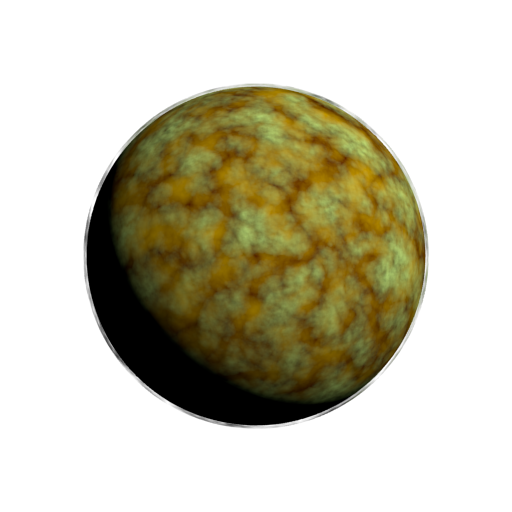
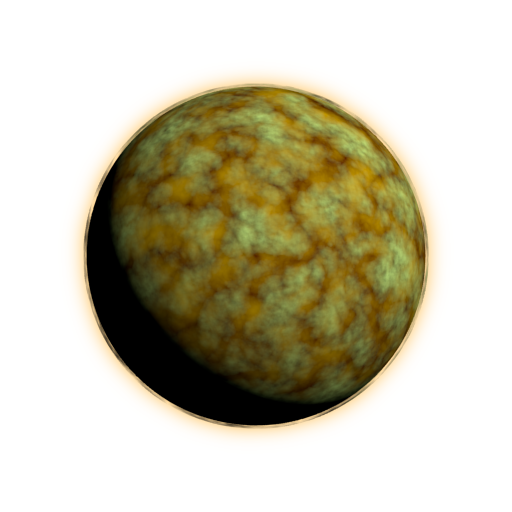
added thrust texture to spaceship

Changed region(s): [[0.125, 0.125, 0.875, 0.875]]

diff --git a/src/sgeroids/view/planar/entity/spaceship.cpp b/src/sgeroids/view/planar/entity/spaceship.cpp
@@ -17,18 +17,22 @@ sgeroids::view::planar::entity::spaceship::spaceship(
 	planar::texture_tree &_texture_tree,
 	planar::radius const &_radius)
 :
+	texture_off_(
+		_texture_tree.get(
+			sgeroids::resource_tree::path() / FCPPT_TEXT("spaceship") / FCPPT_TEXT("off"))),
+	texture_on_(
+		_texture_tree.get(
+			sgeroids::resource_tree::path() / FCPPT_TEXT("spaceship") / FCPPT_TEXT("on"))),
 	sprite_(
 		planar::sprite::parameters()
 			.system(
 				_sprite_system)
 			.size(
 				planar::sprite_size_from_texture_and_radius(
-					_texture_tree.get(
-						sgeroids::resource_tree::path() / FCPPT_TEXT("spaceship")),
+					texture_off_,
 					_radius))
 			.texture(
-				_texture_tree.get(
-						sgeroids::resource_tree::path() / FCPPT_TEXT("spaceship")))
+				texture_off_)
 			.order(
 				3)
 			.rotation(
@@ -65,6 +69,12 @@ sgeroids::view::planar::entity::spaceship::change_thrust(
 	model::thrust const &_thrust)
 {
 	std::cout << "ship changed thrust to " << _thrust.get() << "\n";
+	if (_thrust.get() > 0)
+		sprite_.texture(
+			texture_on_);
+	else
+		sprite_.texture(
+			texture_off_);
 }
 
 sgeroids::view::planar::entity::spaceship::~spaceship()

diff --git a/include/sgeroids/view/planar/entity/spaceship.hpp b/include/sgeroids/view/planar/entity/spaceship.hpp
@@ -1,6 +1,7 @@
 #ifndef SGEROIDS_VIEW_PLANAR_ENTITY_SPACESHIP_HPP_INCLUDED
 #define SGEROIDS_VIEW_PLANAR_ENTITY_SPACESHIP_HPP_INCLUDED
 
+#include <sge/texture/const_part_ptr.hpp>
 #include <sgeroids/model/thrust.hpp>
 #include <sgeroids/view/planar/radius.hpp>
 #include <sgeroids/view/planar/texture_tree.hpp>
@@ -47,6 +48,9 @@ public:
 
 	~spaceship();
 private:
+	sge::texture::const_part_ptr
+		texture_off_,
+		texture_on_;
 	planar::sprite::object sprite_;
 };
 }

diff --git a/src/sgeroids/view/planar/entity/asteroid.cpp b/src/sgeroids/view/planar/entity/asteroid.cpp
@@ -17,7 +17,7 @@ sgeroids::view::planar::entity::asteroid::asteroid(
 :
 	texture_(
 		_texture_tree.get(
-			sgeroids::resource_tree::path() / FCPPT_TEXT("asteroids"))),
+			sgeroids::resource_tree::path() / FCPPT_TEXT("asteroid"))),
 	sprite_(
 		planar::sprite::parameters()
 			.system(
